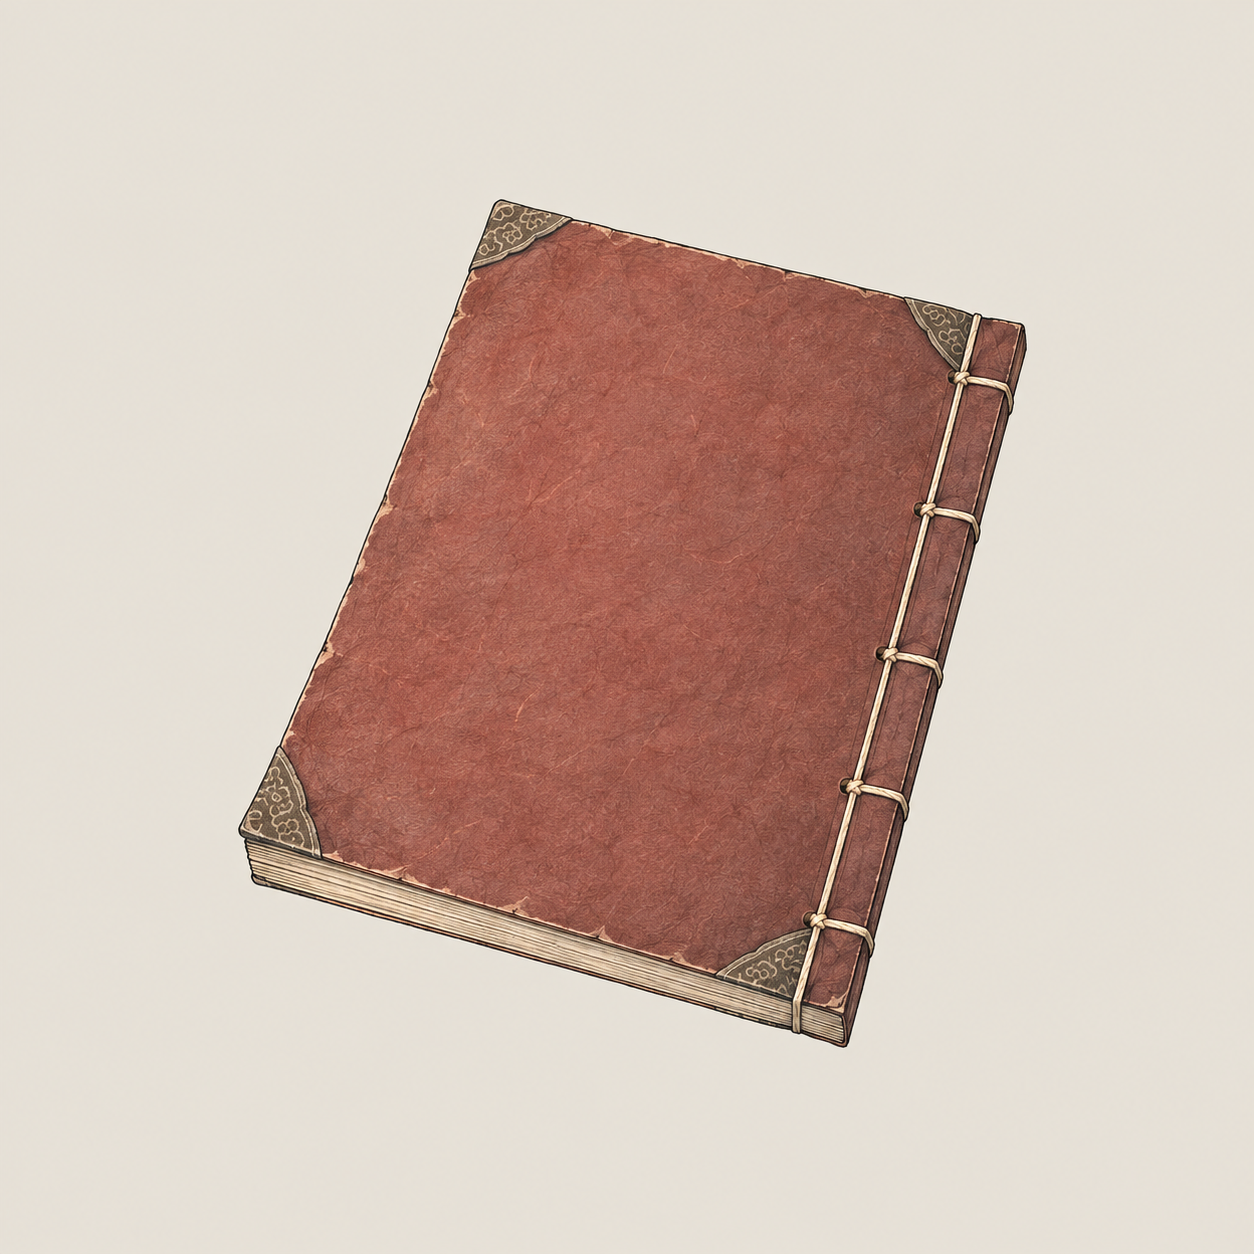
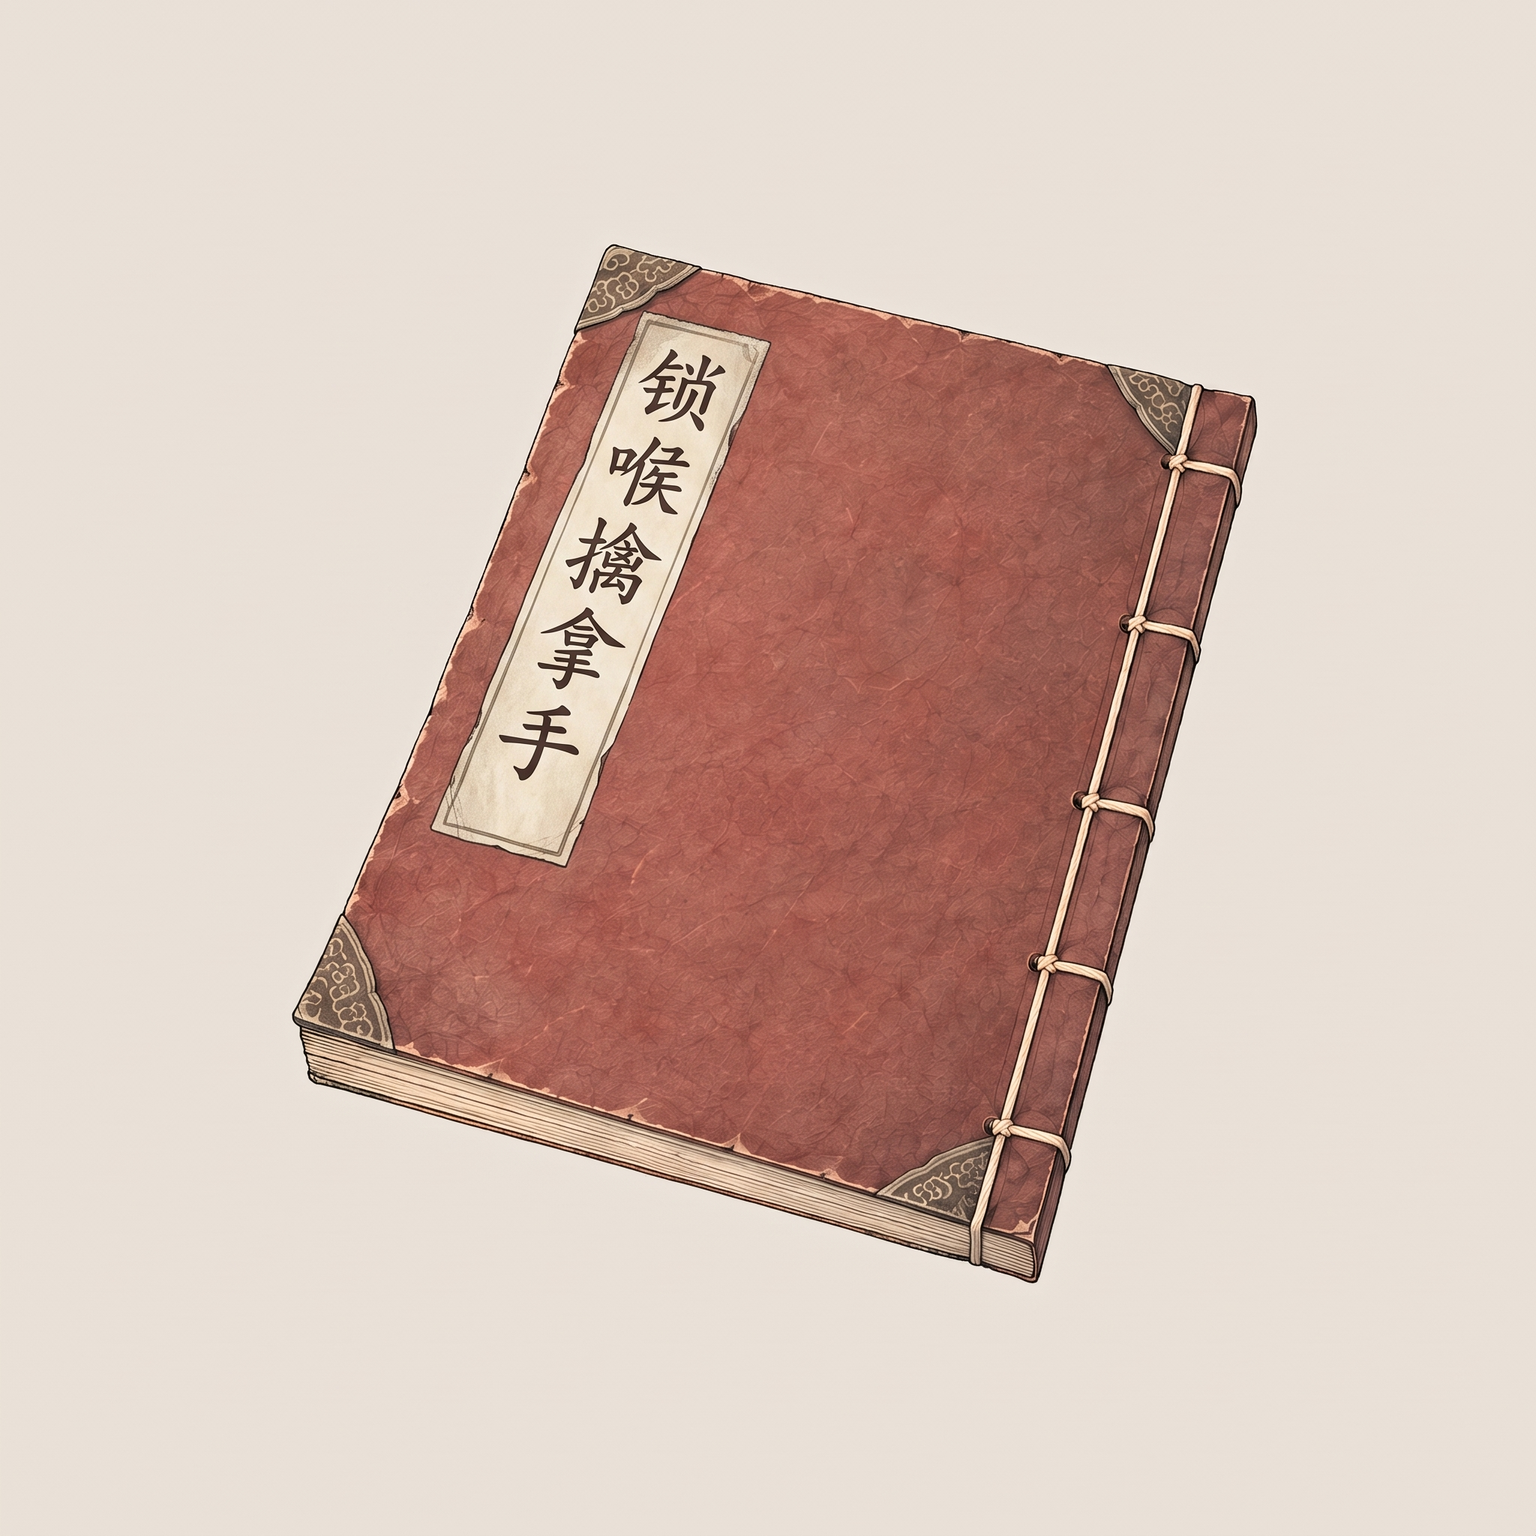
assets(gemini): it_miji_suohouqinnashou 锁喉擒拿手遗谱

diff --git a/assets/default/prompts/INDEX.md b/assets/default/prompts/INDEX.md
@@ -3,7 +3,7 @@
 > 本文件由 `tools/agents/build_image_index.py` 生成，不要手改；改提示词就改各文件，改规程就改各组 `GUIDE.md`，然后重新生成。
 > 人物立绘另见 `characters/INDEX.md`（别的 agent 在出，不在本索引）。建筑套件与贴片已出齐，只列完成度。
 
-提示词 **627** 份：已入库 259、待出图 232、已通过（作者） 136。**待出图队列 232 行**（`python3 tools/agents/build_image_index.py --queue`）。
+提示词 **627** 份：已入库 260、待出图 232、已通过（作者） 135。**待出图队列 232 行**（`python3 tools/agents/build_image_index.py --queue`）。
 
 ## 出图 agent 怎么用
 
@@ -391,7 +391,7 @@
 | 116 | 猪肚 | `it_zhudu` | 黄 | 食材·肉 | 待出图 | [it_zhudu.md](items/food/it_zhudu.md) | template |
 | 117 | 猪肉 | `it_zhurou` | 黄 | 食材·肉 | 待出图 | [it_zhurou.md](items/food/it_zhurou.md) | template |
 
-### 武学秘籍（18）· 已入库 14、已通过（作者） 4
+### 武学秘籍（18）· 已入库 15、已通过（作者） 3
 
 （已全部入库。）
 
